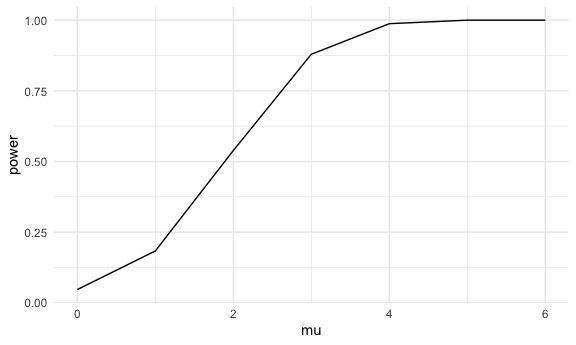
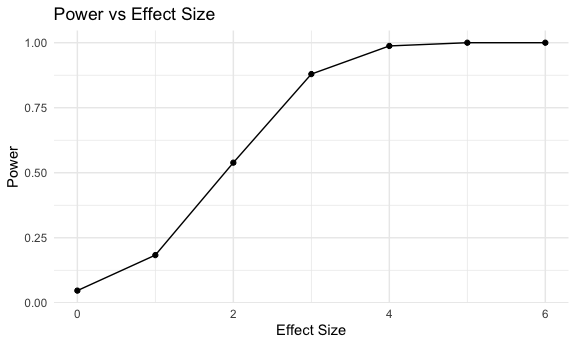
final commit

diff --git a/p8105_hw5_yl5214.md b/p8105_hw5_yl5214.md
@@ -119,7 +119,7 @@ CI, likely is the location of many homicides.
 
 ``` r
 # Step 1: Get a list of file names in the directory
-file_path = list.files(path = "data", pattern = "\\.csv$", full.names = TRUE)
+file_path = list.files(path = "data/question 2", pattern = "\\.csv$", full.names = TRUE)
 #Iterate over file names and read in data for each subject using purrr::map and saving the result as a new variable in the dataframe
 data= 
   file_path |> as.data.frame() |> mutate(data=map(file_path,read_csv)) |> as.tibble() |> unnest() |> 
@@ -276,30 +276,39 @@ mutate(
     ## 
     ## ℹ Use `spec()` to retrieve the full column specification for this data.
     ## ℹ Specify the column types or set `show_col_types = FALSE` to quiet this message.
-    ## Rows: 52179 Columns: 12
-    ## ── Column specification ────────────────────────────────────────────────────────
-    ## Delimiter: ","
-    ## chr (9): uid, victim_last, victim_first, victim_race, victim_age, victim_sex...
-    ## dbl (3): reported_date, lat, lon
-    ## 
-    ## ℹ Use `spec()` to retrieve the full column specification for this data.
-    ## ℹ Specify the column types or set `show_col_types = FALSE` to quiet this message.
+
+``` r
+head(data)
+```
+
+    ## # A tibble: 6 × 4
+    ##   arm            subject_id week  observation
+    ##   <chr>          <chr>      <chr>       <dbl>
+    ## 1 question 2/con 01         1            0.2 
+    ## 2 question 2/con 01         2           -1.31
+    ## 3 question 2/con 01         3            0.66
+    ## 4 question 2/con 01         4            1.96
+    ## 5 question 2/con 01         5            0.23
+    ## 6 question 2/con 01         6            1.09
 
 ``` r
 #Make a spaghetti plot
-data |>mutate(subject_id=factor(subject_id),arm=factor(arm)) |>  
-  ggplot(aes (x=week , y=observation,color=arm))+
+data |>
+  mutate(subject_id=factor(subject_id),arm=factor(arm)) |>  
+  ggplot(aes (x=week , y=observation,color=subject_id))+
   geom_line(aes(group=subject_id))+
-  facet_grid(~arm)
+  facet_grid(~arm)+
+    labs(title = "Observations Over Time by Subject", x = "Week", y = "Observation")+
+  theme_minimal()
 ```
 
 <img src="p8105_hw5_yl5214_files/figure-gfm/unnamed-chunk-9-1.png" width="90%" />
-The pattern of observation for exposure group is higher than the pattern
-of observation for the control group from week 1 to week 8. For control
-group, the observation is oscillateed around 1.25 through week1 to
-week8. For exposure group, the observation has increase pattern from
-week 1 to week 8. There are more negative observation in control group
-than those in the exposure group.
+The pattern of observation for exposure group is significantly higher
+than the pattern of observation for the control group from week 1 to
+week 8. For control group, the observation is oscillateed around 1.25
+through week1 to week8. For exposure group, the observation has sharp
+increase from week 1 to week 8. There are more negative observation in
+control group than those in the exposure group.
 
 ## question 3
 
@@ -319,21 +328,43 @@ repeat_result =
   ) |> 
   mutate(estimate_df = map(mu, sim_mean_p)) |> 
   unnest(estimate_df)
+head(repeat_result)
+```
+
+    ## # A tibble: 6 × 4
+    ##      mu  iter estimate p.value
+    ##   <dbl> <int>    <dbl>   <dbl>
+    ## 1     0     1   0.394   0.649 
+    ## 2     0     2   1.56    0.195 
+    ## 3     0     3   2.18    0.0363
+    ## 4     0     4   0.126   0.895 
+    ## 5     0     5  -0.278   0.806 
+    ## 6     0     6   0.0257  0.978
+
+``` r
 ## Make a plot showing the proportion of times the null was rejected (the power of the test) on the y axis and the true value of μ on the x axis.
-plot1=
+plot1= 
   repeat_result|>
   group_by(mu) |> 
   mutate(reject= as.numeric(p.value<0.05)) |> 
   summarise(power = mean(reject)) |>
   ggplot(aes(x=mu, y=power))+
-  geom_path()
+  geom_point()+
+  geom_path()+
+  labs(title = "Power vs Effect Size",
+       x = "Effect Size",
+       y = "Power") +
+  theme_minimal()
 
 plot1
 ```
 
 <img src="p8105_hw5_yl5214_files/figure-gfm/unnamed-chunk-10-1.png" width="90%" />
-Interpretation:As the effect size goes up from 0 to 6, power goes up
-from 0.00 to 1.00.
+\##Interpretation: The graph shows a positive association between true
+mean and power.As the effect size goes up from 0 to 6, power goes up
+from 0.00 to 1.00. This is because a larger effect size is associated
+with increased statistical power, making it easier to detect a
+statistically significant difference.
 
 ``` r
 ##Make a plot showing the average estimate of μ̂ on the y axis and the true value of μ on the x axis. Make a second plot (or overlay on the first) the average estimate of μ̂ only in samples for which the null was rejected on the y axis and the true value of μ on the x axis.
@@ -341,23 +372,31 @@ average_mean=
   repeat_result |> 
   group_by(mu) |> 
   summarise(average=mean(estimate)) |> 
-mutate(case='case1')
+mutate(case='average estimate of μ')
 
 re_average_mean=
   repeat_result |> 
   filter(p.value<0.05) |> 
   group_by(mu) |> 
   summarise(average=mean(estimate)) |> 
-mutate(case= 'case2')
+mutate(case= 'null was rejected')
 
 bind_rows(average_mean,re_average_mean)|> 
   ggplot(aes(x=mu, y=average, color=case))+
   geom_point()+
-  geom_path()
+  geom_path()+
+  labs(title = "Average Estimate of μ̂",
+       x = "True mu",
+       y = "Average Estimate of μ̂") +
+  theme_minimal()
 ```
 
 <img src="p8105_hw5_yl5214_files/figure-gfm/unnamed-chunk-11-1.png" width="90%" />
-Is the sample average of μ̂ across tests for which the null is rejected
-approximately equal to the true value of μ? Why or why not? The sample
-average of mu across tests for which the null is rejected approximately
-equal to the true value of mu
+\## Is the sample average of μ̂ across tests for which the null is
+rejected approximately equal to the true value of μ? Why or why not?
+When the true value of mu is from 0 to 3, sample average of μ̂ is
+different from the true value of mu because the power and effect size is
+small. When the true value of mu is from 4-6, sample average of μ̂ is
+approximately equal to the true value of mu because the effect size and
+power is larger. When the effect size is smaller, there is a lower power
+and fewer rejection from tests.
